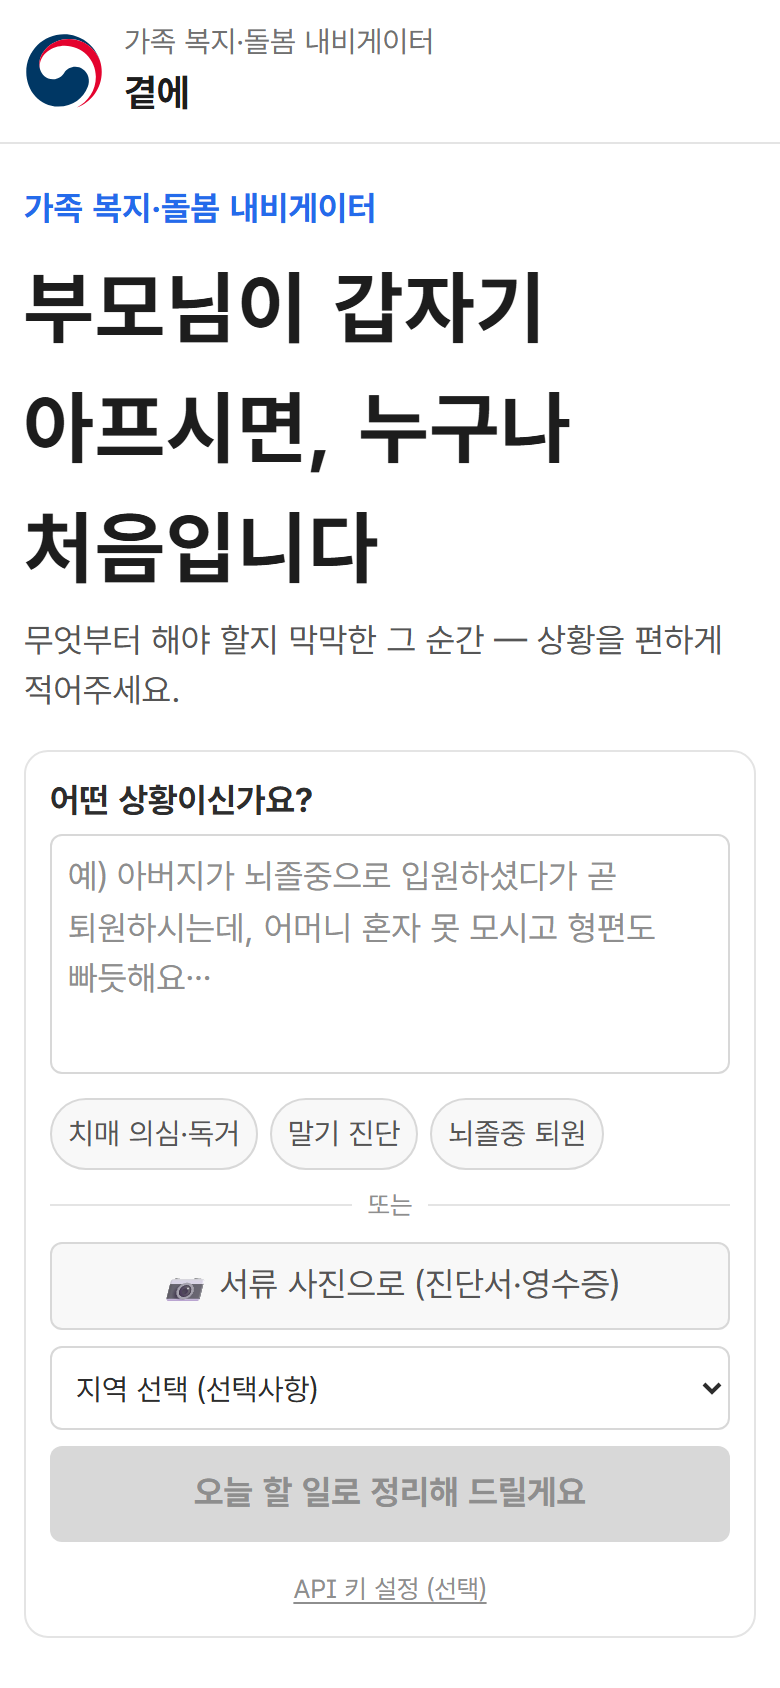
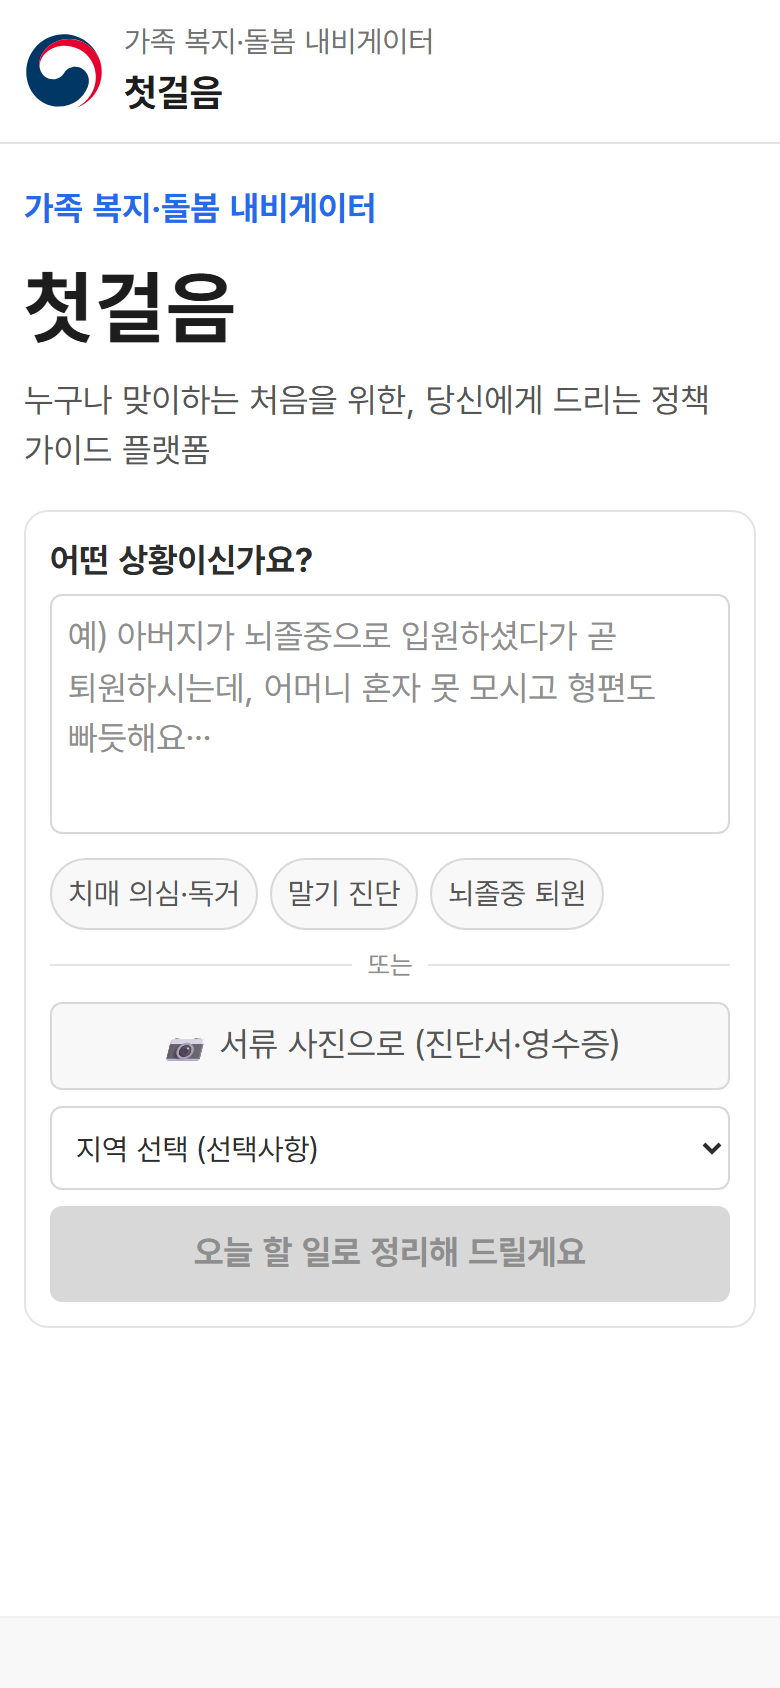
05 보정: LLM 관련도·시급도 정렬(상위10 입력 안정화)+버킷당 8캡 / 앱명 곁에→첫걸음 / API키 입력 삭제 / 히어로 카피 변경

diff --git a/web/app/page.tsx b/web/app/page.tsx
@@ -1,6 +1,6 @@
 'use client';
 
-import { useEffect, useState, type ChangeEvent } from 'react';
+import { useState, type ChangeEvent } from 'react';
 
 type Card = {
   id: string; name: string; agency?: string; phone?: string | null; badge: string;
@@ -27,21 +27,16 @@ export default function Home() {
   const [text, setText] = useState('');
   const [photo, setPhoto] = useState<{ url: string; name: string } | null>(null);
   const [region, setRegion] = useState('');
-  const [apiKey, setApiKey] = useState('');
-  const [modal, setModal] = useState(false);
   const [loading, setLoading] = useState(false);
   const [data, setData] = useState<{ signals: Signals; result: Result } | null>(null);
   const [err, setErr] = useState('');
-  const [expanded, setExpanded] = useState<Record<string, boolean>>({});
-
-  useEffect(() => { setApiKey(localStorage.getItem('openai_key') || ''); }, []);
 
   async function callMatch(payload: { text?: string; region?: string; image?: string }) {
-    setLoading(true); setErr(''); setData(null); setExpanded({});
+    setLoading(true); setErr(''); setData(null);
     try {
       const res = await fetch('/api/match', {
         method: 'POST',
-        headers: { 'content-type': 'application/json', ...(apiKey ? { 'x-openai-key': apiKey } : {}) },
+        headers: { 'content-type': 'application/json' },
         body: JSON.stringify(payload),
       });
       if (!res.ok) throw new Error('요청에 실패했어요 (' + res.status + ')');
@@ -67,18 +62,15 @@ export default function Home() {
   }
 
   const canSubmit = !loading && (!!photo || !!text.trim());
-  const total = data ? Object.values(data.result.timeline).reduce((n, a) => n + a.length, 0) : 0;
 
   return (
     <main className="mx-auto max-w-2xl px-4 pb-20">
       {/* Hero — 모바일 컴팩트, 핵심 입력을 첫 화면에 */}
       <section className="pt-6 md:pt-10">
         <p className="text-label-m font-bold text-primary">가족 복지·돌봄 내비게이터</p>
-        <h1 className="mt-1.5 break-keep text-heading-m font-bold text-gray-90 md:text-display-s">
-          부모님이 갑자기 아프시면, 누구나 처음입니다
-        </h1>
+        <h1 className="mt-1.5 break-keep text-display-s font-bold text-gray-90 md:text-display-m">첫걸음</h1>
         <p className="mt-2 break-keep text-body-m text-gray-70">
-          무엇부터 해야 할지 막막한 그 순간 — 상황을 편하게 적어주세요.
+          누구나 맞이하는 처음을 위한, 당신에게 드리는 정책 가이드 플랫폼
         </p>
       </section>
 
@@ -140,12 +132,6 @@ export default function Home() {
           className="mt-3 h-12 w-full rounded-krds bg-primary text-title-s font-bold text-white transition-colors hover:bg-primary-60 disabled:bg-gray-30 disabled:text-gray-50">
           {loading ? '상황을 이해하는 중…' : '오늘 할 일로 정리해 드릴게요'}
         </button>
-
-        <div className="mt-2.5 text-center">
-          <button onClick={() => setModal(true)} className="text-detail-s text-gray-50 underline underline-offset-2 hover:text-gray-70">
-            API 키 설정 (선택)
-          </button>
-        </div>
       </section>
 
       {err && (
@@ -157,7 +143,7 @@ export default function Home() {
         <section className="mt-7" aria-live="polite">
           <h2 className="text-heading-s font-bold text-gray-90">오늘 할 일을 정리했어요</h2>
           <p className="mt-1 break-keep text-body-s text-gray-60">
-            관련도 높은 순 · 핵심 먼저. 자격은 <b className="font-bold text-gray-80">받을 가능성</b>이며 공식 링크로 꼭 확인하세요.
+            관련도·시급도 높은 순. 자격은 <b className="font-bold text-gray-80">받을 가능성</b>이며 공식 링크로 꼭 확인하세요.
             {data.signals.via === 'keyword' ? ' (키워드 모드)' : ''}
           </p>
 
@@ -174,9 +160,6 @@ export default function Home() {
           {BUCKETS.map((bk) => {
             const cards = data.result.timeline[bk.key] || [];
             if (!cards.length) return null;
-            const open = expanded[bk.key];
-            const shown = open ? cards : cards.filter((c) => c.core);
-            const hidden = cards.length - shown.length;
             return (
               <div key={bk.key} className="mt-6">
                 <div className="flex items-center gap-2">
@@ -185,38 +168,12 @@ export default function Home() {
                   <span className="text-detail-s text-gray-50">{bk.sub}</span>
                 </div>
                 <div className="mt-2.5 space-y-2.5">
-                  {shown.map((c) => <ProgramCard key={c.id} c={c} />)}
+                  {cards.map((c) => <ProgramCard key={c.id} c={c} />)}
                 </div>
-                {hidden > 0 && (
-                  <button onClick={() => setExpanded((e) => ({ ...e, [bk.key]: true }))}
-                    className="mt-2.5 h-10 w-full rounded-krds border border-gray-20 text-label-m text-gray-60 hover:bg-gray-5">
-                    이 단계에서 받을 수 있는 {hidden}개 더 보기
-                  </button>
-                )}
               </div>
             );
           })}
         </section>
-      )}
-
-      {/* 키 설정 모달 */}
-      {modal && (
-        <div onClick={() => setModal(false)} className="fixed inset-0 z-20 flex items-center justify-center bg-gray-90/40 p-5">
-          <div onClick={(e) => e.stopPropagation()} className="w-full max-w-sm rounded-krds-lg bg-white p-5 shadow-lg">
-            <h2 className="text-title-m font-bold text-gray-90">OpenAI API 키 (선택)</h2>
-            <p className="mt-1.5 break-keep text-body-s text-gray-60">
-              키는 이 브라우저에만 저장되며 서버·저장소에 기록되지 않습니다. 비워두면 서버 키 또는 키워드 모드로 동작합니다.
-            </p>
-            <input value={apiKey} onChange={(e) => setApiKey(e.target.value)} placeholder="sk-..." type="password"
-              className="mt-3 w-full rounded-krds border border-gray-30 px-3 py-2.5 text-body-s text-gray-90 focus:border-primary focus:outline-none" />
-            <div className="mt-4 flex gap-2">
-              <button onClick={() => { localStorage.setItem('openai_key', apiKey); setModal(false); }}
-                className="h-11 flex-1 rounded-krds bg-primary text-label-l font-bold text-white hover:bg-primary-60">저장</button>
-              <button onClick={() => { localStorage.removeItem('openai_key'); setApiKey(''); setModal(false); }}
-                className="h-11 rounded-krds border border-gray-30 px-4 text-label-l text-gray-70 hover:bg-gray-5">삭제</button>
-            </div>
-          </div>
-        </div>
       )}
     </main>
   );

diff --git a/web/app/api/match/route.ts b/web/app/api/match/route.ts
@@ -62,18 +62,23 @@ export async function POST(req: Request) {
   const rankText = text || Object.values(signals.slots || {}).flat().join(', ');
   if (apiKey && rankText) {
     try {
+      // 정렬 대상은 버킷별 상위 10개(결정론 점수)만 — LLM 호출을 가볍게/안정적으로.
       const items: { id: string; name: string }[] = [];
-      for (const b of Object.keys(result.timeline)) for (const c of result.timeline[b]) items.push({ id: c.id, name: c.name });
+      for (const b of Object.keys(result.timeline)) for (const c of result.timeline[b].slice(0, 10)) items.push({ id: c.id, name: c.name });
       const order = await rankByRelevance({ text: rankText, items }, { apiKey, model });
       if (order) {
         const idx = new Map<string, number>(order.map((id: string, i: number) => [id, i]));
         for (const b of Object.keys(result.timeline)) {
           result.timeline[b].sort((a: any, c: any) => (idx.get(a.id) ?? 1e9) - (idx.get(c.id) ?? 1e9));
-          result.timeline[b].forEach((c: any, i: number) => { c.core = c.boosted || i < 4; });
         }
         result.rankedBy = 'llm';
       }
     } catch { /* 결정론 순서 유지 */ }
+  }
+
+  // 항목(버킷)당 최대 8개만 노출 — 관련도·시급도 낮은 꼬리는 제외.
+  for (const b of Object.keys(result.timeline)) {
+    result.timeline[b] = result.timeline[b].slice(0, 8);
   }
 
   return NextResponse.json({ signals, result });

diff --git a/web/components/Header.tsx b/web/components/Header.tsx
@@ -6,7 +6,7 @@ import { Masthead } from '@krds-ui/core';
 // 모바일(앱/PWA)에선 Masthead·GNB를 숨겨 "컴팩트 헤더 1줄"로 — 데스크톱 크롬을 폰에 욱여넣지 않는다
 // (md: 분기로 데스크톱은 그대로). 상세 docs/android-apk-recipe.md §8.
 
-const SERVICE_NAME = '곁에'; // 가족 복지·돌봄 내비게이터
+const SERVICE_NAME = '첫걸음'; // 가족 복지·돌봄 내비게이터
 const GNB_ITEMS: { label: string; href: string }[] = [];
 
 export function Header() {